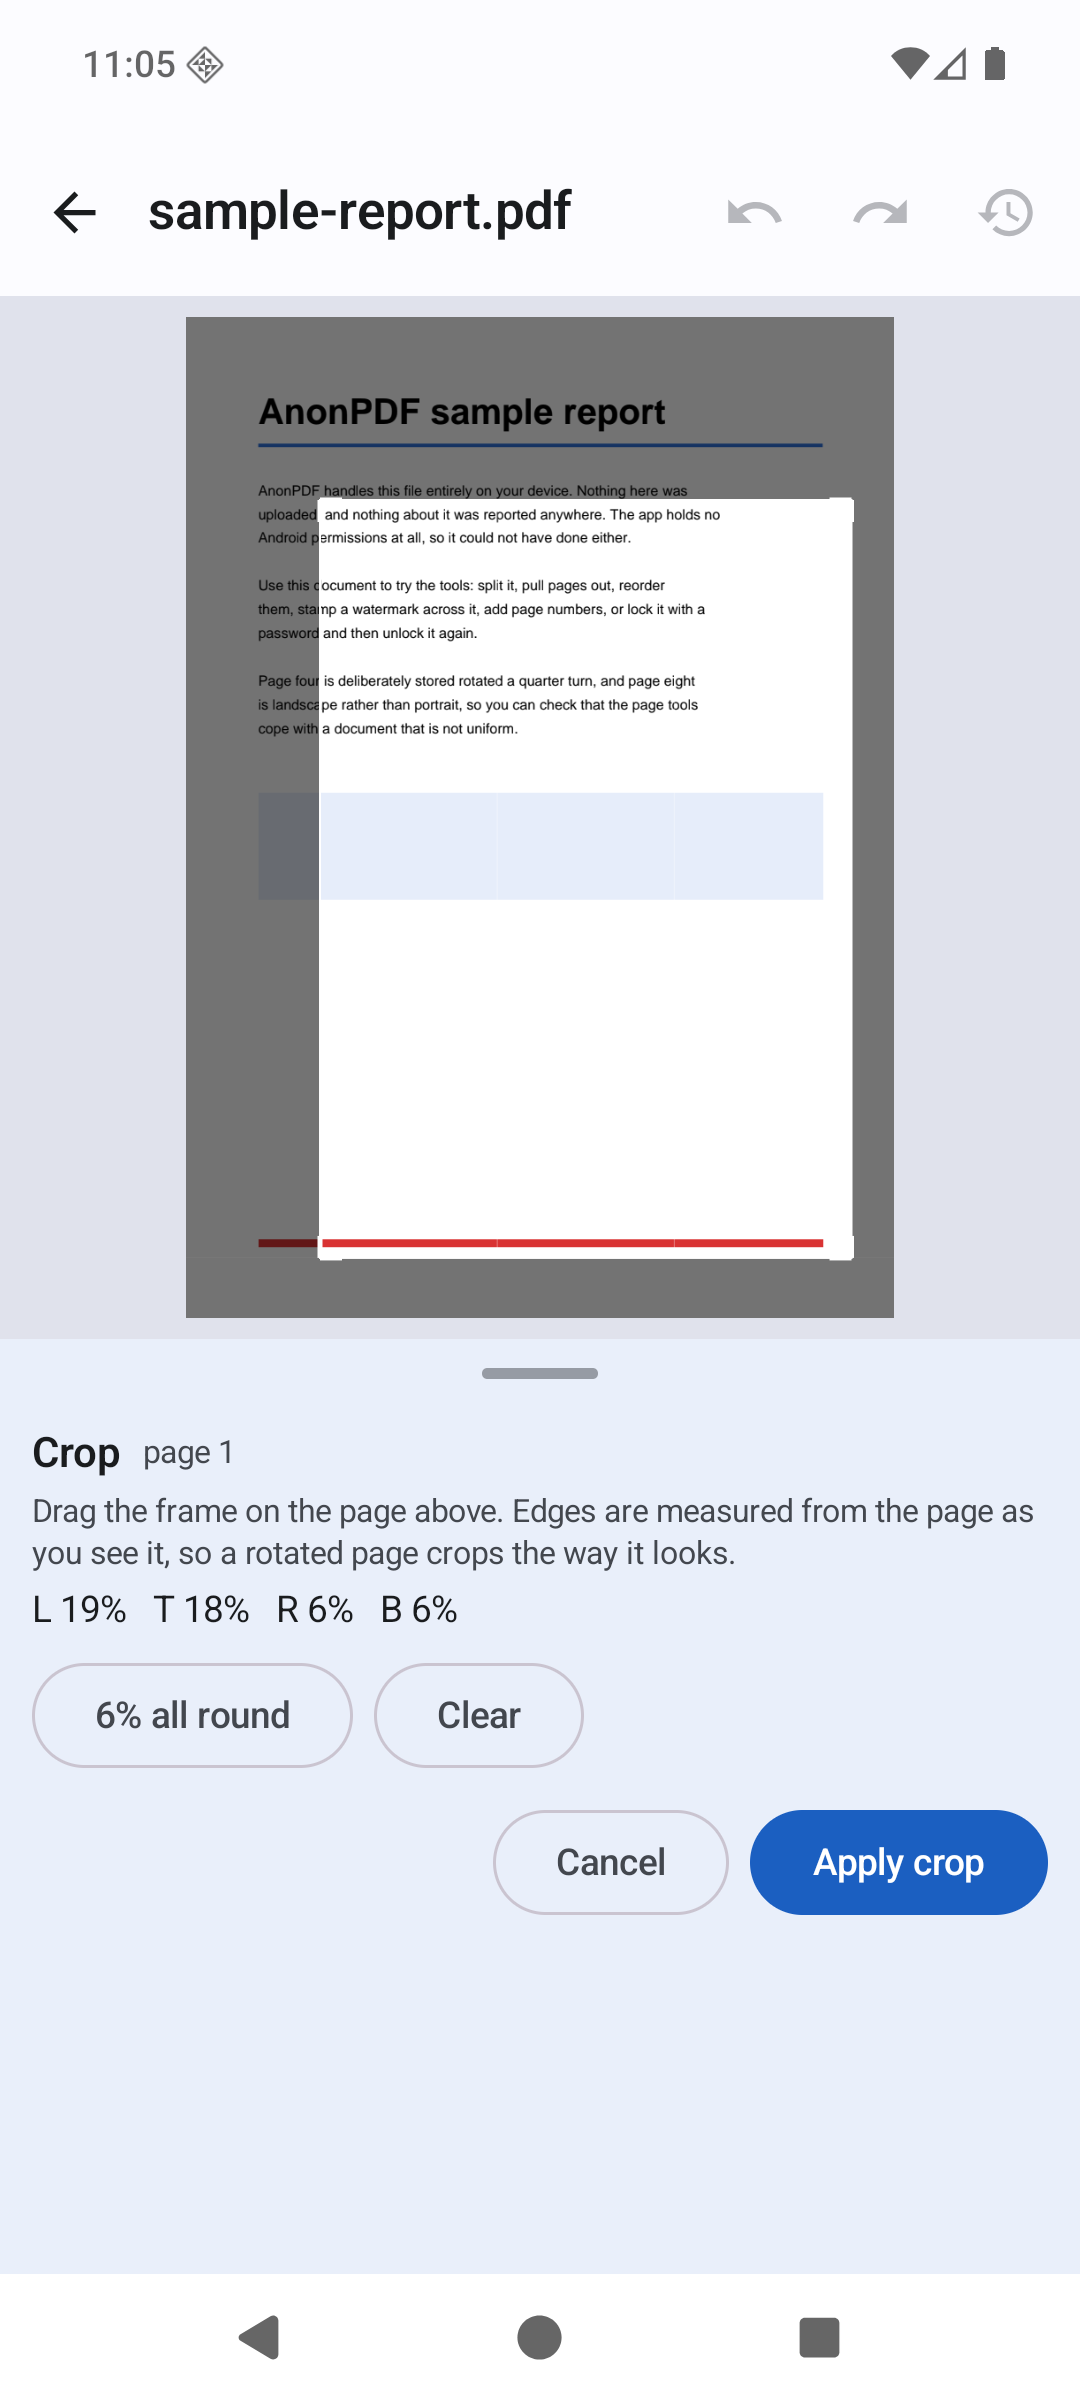
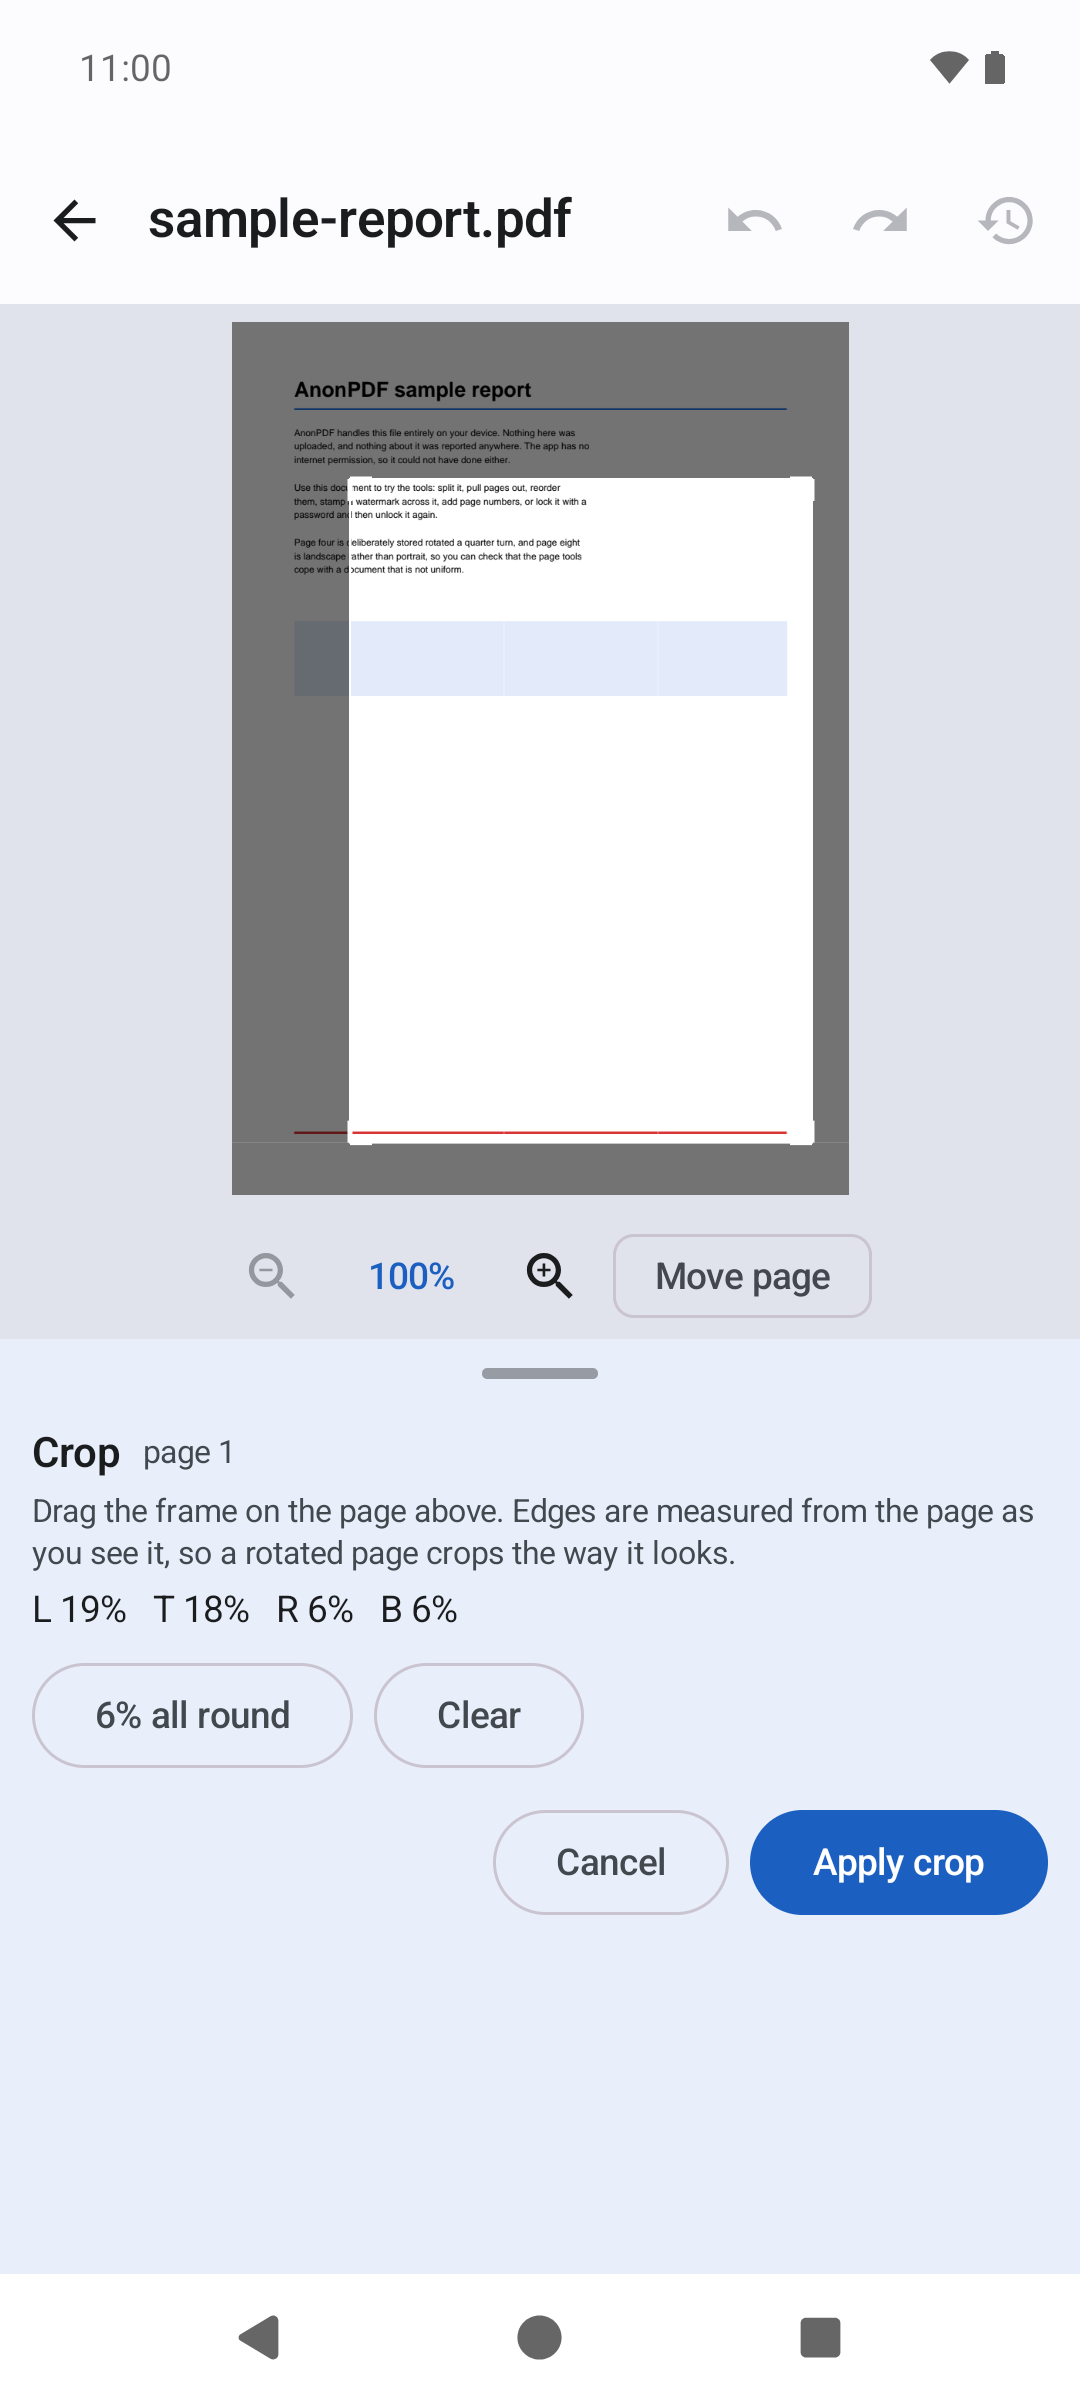
Screenshots show a sample document that tells the truth about permissions
The old sample said the app holds no Android permissions at all, which stopped
being true when the optional all-files permission arrived. The sample is now
generated by docs/screenshots/make_sample_pdf.py, and the editor and viewer
shots are retaken on 1.1.0.

diff --git a/docs/screenshots/make_sample_pdf.py b/docs/screenshots/make_sample_pdf.py
@@ -1,0 +1,109 @@
+#!/usr/bin/env python3
+"""Writes sample-report.pdf, the document shown in the screenshots.
+
+Eight pages: page four is stored rotated a quarter turn and page eight is
+landscape, so the page tools have something uneven to work on. Standard library
+only; the PDF uses the built-in Helvetica fonts, so nothing is embedded.
+
+    python3 docs/screenshots/make_sample_pdf.py [out.pdf]
+"""
+import sys
+
+A4 = (595, 842)
+MARGIN = 60
+
+INTRO = [
+    [
+        "AnonPDF handles this file entirely on your device. Nothing here was",
+        "uploaded, and nothing about it was reported anywhere. The app has no",
+        "internet permission, so it could not have done either.",
+    ],
+    [
+        "Use this document to try the tools: split it, pull pages out, reorder",
+        "them, stamp a watermark across it, add page numbers, or lock it with a",
+        "password and then unlock it again.",
+    ],
+    [
+        "Page four is deliberately stored rotated a quarter turn, and page eight",
+        "is landscape rather than portrait, so you can check that the page tools",
+        "cope with a document that is not uniform.",
+    ],
+]
+
+PAGES = [
+    ("AnonPDF sample report", A4, 0),
+    ("Reading", A4, 0),
+    ("Organising pages", A4, 0),
+    ("This page is stored rotated", A4, 90),
+    ("Converting", A4, 0),
+    ("Markup", A4, 0),
+    ("Security", A4, 0),
+    ("A landscape page", (A4[1], A4[0]), 0),
+]
+
+
+def text(s: str) -> str:
+    return "(" + s.replace("\\", "\\\\").replace("(", "\\(").replace(")", "\\)") + ")"
+
+
+def content(title: str, size: tuple[int, int]) -> bytes:
+    w, h = size
+    right = w - MARGIN
+    y = h - 72
+    ops = ["BT /F2 20 Tf", f"{MARGIN} {y} Td {text(title)} Tj ET"]
+    y -= 12
+    ops += ["0.11 0.42 0.87 RG 1.5 w", f"{MARGIN} {y} m {right} {y} l S"]
+    y -= 26
+    for para in INTRO:
+        for line in para:
+            ops.append(f"BT /F1 9 Tf {MARGIN} {y} Td {text(line)} Tj ET")
+            y -= 13
+        y -= 14
+    y -= 20
+    ops += ["0.89 0.92 0.98 rg", f"{MARGIN} {y - 72} {right - MARGIN} 72 re f"]
+    ops += ["0.85 0.2 0.2 RG 2.5 w", f"{MARGIN} 60 m {right} 60 l S"]
+    return "\n".join(ops).encode("latin-1")
+
+
+def build() -> bytes:
+    objects: list[bytes] = []
+
+    def add(body: bytes) -> int:
+        objects.append(body)
+        return len(objects)
+
+    catalog = add(b"")
+    pages = add(b"")
+    f1 = add(b"<< /Type /Font /Subtype /Type1 /BaseFont /Helvetica /Encoding /WinAnsiEncoding >>")
+    f2 = add(b"<< /Type /Font /Subtype /Type1 /BaseFont /Helvetica-Bold /Encoding /WinAnsiEncoding >>")
+    kids = []
+    for title, size, rotate in PAGES:
+        stream = content(title, size)
+        c = add(b"<< /Length %d >>\nstream\n" % len(stream) + stream + b"\nendstream")
+        kids.append(add(
+            b"<< /Type /Page /Parent %d 0 R /MediaBox [0 0 %d %d] /Rotate %d "
+            b"/Resources << /Font << /F1 %d 0 R /F2 %d 0 R >> >> /Contents %d 0 R >>"
+            % (pages, size[0], size[1], rotate, f1, f2, c)
+        ))
+    objects[catalog - 1] = b"<< /Type /Catalog /Pages %d 0 R >>" % pages
+    objects[pages - 1] = b"<< /Type /Pages /Kids [%s] /Count %d >>" % (
+        b" ".join(b"%d 0 R" % k for k in kids), len(kids))
+    info = add(b"<< /Title (AnonPDF sample report) /Producer (make_sample_pdf.py) >>")
+
+    out = bytearray(b"%PDF-1.4\n%\xe2\xe3\xcf\xd3\n")
+    offsets = []
+    for i, body in enumerate(objects, 1):
+        offsets.append(len(out))
+        out += b"%d 0 obj\n" % i + body + b"\nendobj\n"
+    xref = len(out)
+    out += b"xref\n0 %d\n0000000000 65535 f \n" % (len(objects) + 1)
+    out += b"".join(b"%010d 00000 n \n" % o for o in offsets)
+    out += b"trailer\n<< /Size %d /Root %d 0 R /Info %d 0 R >>\nstartxref\n%d\n%%%%EOF\n" % (
+        len(objects) + 1, catalog, info, xref)
+    return bytes(out)
+
+
+if __name__ == "__main__":
+    path = sys.argv[1] if len(sys.argv) > 1 else "sample-report.pdf"
+    with open(path, "wb") as f:
+        f.write(build())

diff --git a/docs/play/store-listing.md b/docs/play/store-listing.md
@@ -119,3 +119,7 @@ Play rejects a screenshot whose long side is more than twice its short side,
 and the emulator's are 1080x2400. Each one is fitted onto the icon's navy at
 1200x2400, scaled to a height of 2240 with rounded corners, so nothing is
 cropped.
+
+The document in the editor shots is `sample-report.pdf`, written by
+`docs/screenshots/make_sample_pdf.py`. Its text describes the app, so keep it
+true when the app changes, then retake the shots.
